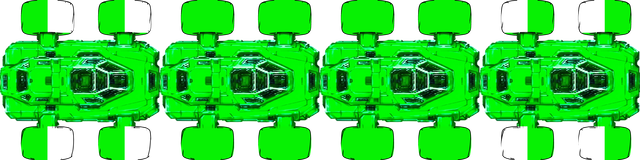
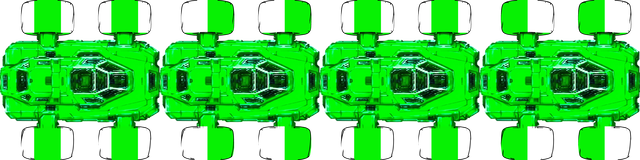
Add files via upload

diff --git a/sw.js b/sw.js
@@ -1,5 +1,5 @@
 // Network-first cache so the Home Screen app opens offline but always picks up new versions when online.
-const C='targ-v19';
+const C='targ-v20';
 const FILES=['./','./index.html','./manifest.webmanifest','./enemy.png','./car.png','./icon-180.png','./icon-192.png','./icon-512.png','./sounds/btr.flac','./sounds/defstart.wav','./sounds/df4.wav','./sounds/deffreem.wav','./sounds/Game_Over.mp3','./sounds/Targ_FanFare_trumpets.m4a','./sounds/Fireworks.mp3','./sounds/coin-drop_soundFX.mp3','./sounds/Targ_Bonus_Screen.m4a','./sounds/Targ_skid.m4a','./sounds/intruder_alert.mp3','./sounds/sound-fx-alarm.mp3','./sounds/player_destroyed.mp3','./sounds/DayTrip10.m4a','./sounds/Targ_Bonus_Screen_Fanfare.mp3','./sounds/Good_Job_Bonus.mp3','./sounds/Kill_Spactar.m4a','./sounds/car_fire.m4a','./sounds/game_over_after_decay.m4a','./sounds/Jumpstart_Targ.mp3','./video/fireworks1.mp4','./video/fireworks2.mp4','./video/fireworks3.mp4'];
 self.addEventListener('install',e=>{e.waitUntil(caches.open(C).then(c=>c.addAll(FILES)));self.skipWaiting();});
 self.addEventListener('activate',e=>{e.waitUntil(caches.keys().then(k=>Promise.all(k.filter(n=>n!==C).map(n=>caches.delete(n)))).then(()=>self.clients.claim()));});

diff --git a/index.html b/index.html
@@ -635,7 +635,7 @@ function drawEnemies(){ // called with the overlay at 1:1 canvas pixels
 // very same 8x8 pixels, turned to face the same way. Explosions keep the original pictures.
 // car.png is a strip of square frames side by side (as many as its width divided by its height), each showing the
 // car from above with its FRONT TO THE RIGHT and the artwork reaching the edges of its square.
-const CAR_FRAME_MS=100;       // how long each frame is shown, in milliseconds: 100 = 10 frames a second, the speed of the original GIF
+const CAR_FRAME_MS=150;       // how long each frame is shown, in milliseconds (4 frames x 150 = one wheel turn every 0.6 s)
 const CAR_ART_FACES=0;        // which way the artwork's front points: 0 right, 1 down, 2 left, 3 up
 const carImg=new Image();let carOK=false,carN=0,carSpr=null;
 carImg.onload=()=>{const w=carImg.naturalWidth,h=carImg.naturalHeight;if(!w||!h)return;carN=Math.max(1,Math.round(w/h));carOK=true;carSpr=null;};
